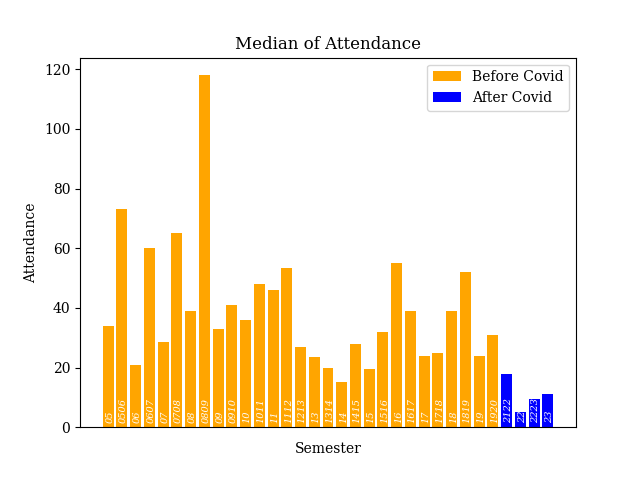
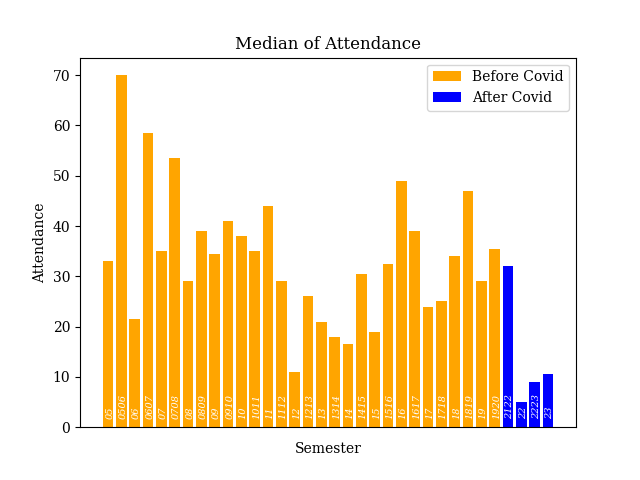
update plots with less data loss where possible

diff --git a/app/analysis/plot.py b/app/analysis/plot.py
@@ -3,6 +3,7 @@ import matplotlib.pyplot as plt
 import pandas as pd
 
 a_cov, b_cov = cutCovid()
+a_save, b_save = getSave()
 cineData = formatfullCSV()
 
 def createYearPlot():
@@ -29,8 +30,8 @@ def createYearPlot():
     plt.clf()
 
 def createRatingPlot():
-    rates_a = a_cov.groupby(['Rating'])['Attendance'].mean()
-    rates_b = b_cov.groupby(['Rating'])['Attendance'].mean()
+    rates_a = a_save.groupby(['Rating'])['Attendance'].mean()
+    rates_b = b_save.groupby(['Rating'])['Attendance'].mean()
 
     plt.scatter(rates_b.index, rates_b.values, color='orange')
     plt.scatter(rates_a.index, rates_a.values)
@@ -38,17 +39,19 @@ def createRatingPlot():
     plt.xlabel('Rating')
     plt.ylabel('Attendance')
     plt.title("Rating to Attendance")
+    plt.legend(['Before Covid', 'After Covid'], loc = 'upper left')
 
     plt.savefig("data/plots/RatingPlot.png")
     plt.clf()
 
 def createAgePlots(xlim: list):
-    plt.scatter(b_cov['MovieAge'] / pd.to_timedelta('365 days'), b_cov['Attendance'], color = 'orange')
-    plt.scatter(a_cov['MovieAge'] / pd.to_timedelta('365 days'), a_cov['Attendance'])
+    plt.scatter(b_save['MovieAge'] / pd.to_timedelta('365 days'), b_save['Attendance'], color = 'orange')
+    plt.scatter(a_save['MovieAge'] / pd.to_timedelta('365 days'), a_save['Attendance'])
     plt.xlabel('Movie Age')
     plt.xlim(xlim)
     plt.ylabel('Attendance')
     plt.title("Movie Age to Attendance")
+    plt.legend(['Before Covid', 'After Covid'])
 
     plt.savefig(f"data/plots/Age{xlim}.png")
     plt.clf()

diff --git a/app/analysis/format.py b/app/analysis/format.py
@@ -5,7 +5,10 @@ load_dotenv()
 
 
 def formatfullCSV():
-    cineData = pd.read_csv(os.getenv('FULL_CSV'), parse_dates=['Date'])
+    save = pd.read_csv(os.getenv("FULL_CSV"), parse_dates=['Date'])
+    missing = pd.read_csv(os.getenv("MISSING_CSV"), parse_dates=['Date'])
+
+    cineData = pd.concat([save, missing], axis=0, ignore_index=True)
     cineData['MovieAge'] = pd.to_timedelta(cineData['MovieAge'])
     cineData = cineData.drop(columns=["Unnamed: 0"])
     cineData['year'] = cineData['Semester'].str.split(" ").str[1]
@@ -20,6 +23,15 @@ def cutCovid():
     b_cov = cineData[cineData['Date'] < pd.to_datetime('2020-3-1')]
 
     return a_cov, b_cov
+
+def getSave():
+    save = pd.read_csv(os.getenv("FULL_CSV"), parse_dates=['Date'])
+
+    a_save = save[save['Date'] > pd.to_datetime('2020-3-1')]
+    #before covid
+    b_save = save[save['Date'] < pd.to_datetime('2020-3-1')]
+
+    return a_save, b_save
 
 def add_bar_label(ax, index, currPos):
     for i, ind in enumerate(index):

diff --git a/main.py b/main.py
@@ -7,7 +7,7 @@ import pandas as pd
 raw_dir = 'data/raw/winter_0506.csv'
 
 def get_clean_meta():
-    return clean(append_meta(pd.read_csv(raw_dir)))
+    return append_meta(pd.read_csv(raw_dir))
 
 if __name__ == "__main__":
-    print(len(pd.read_csv("data/full/cineasta_missing.csv")))
+    createAllPlotsPipe()
